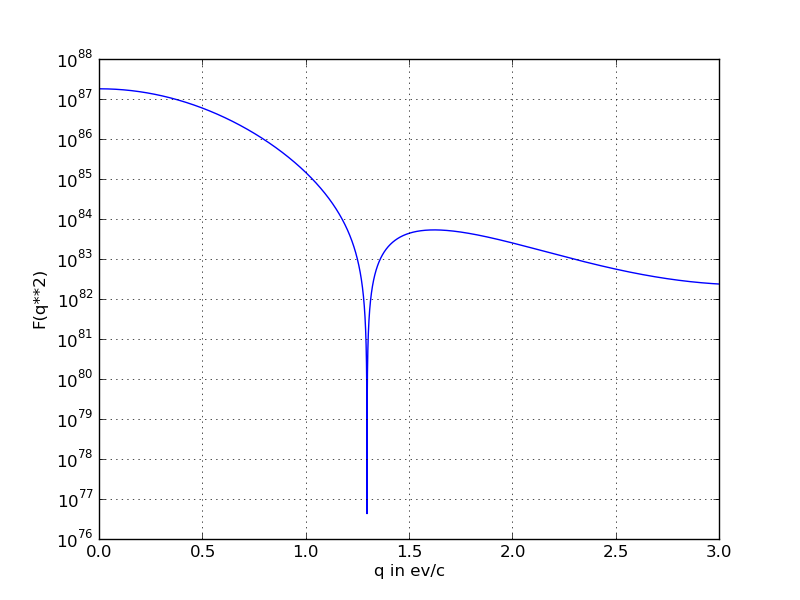
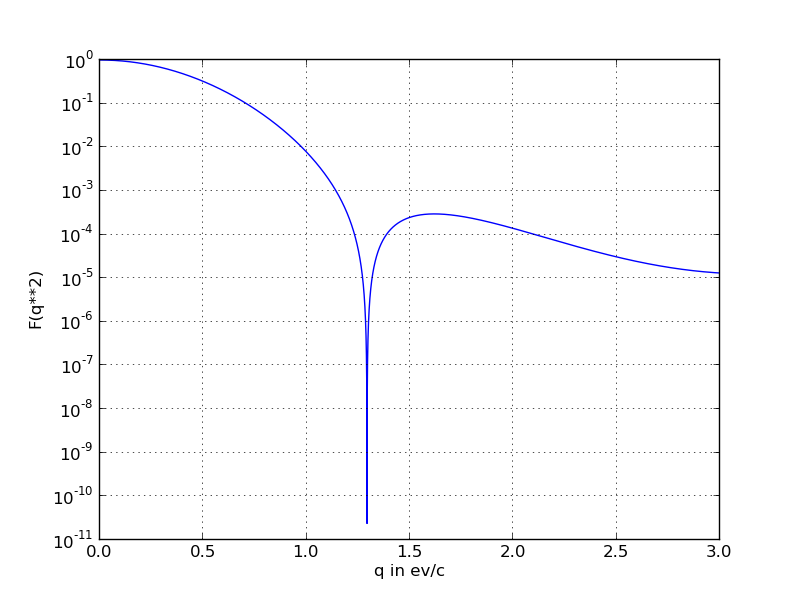
Done with hw2.

diff --git a/hw2/prob2_9.py b/hw2/prob2_9.py
@@ -1,0 +1,47 @@
+#! /usr/bin/env python
+import math
+u   = 931.494e6 # eV
+h   = 4.1357e-15    # eV.s
+hbar= 6.582e-16
+c   = 3.e8
+p_e = 330.e6    # eV
+theta   = 10.    # degrees
+theta_rad   = (10./360)*2*math.pi
+m_e = 0.511e6   # eV
+m_c = 1*u
+z_e = 1
+z_c = 1
+ee  = 1.44e-9
+
+beta_e  = p_e / math.sqrt(p_e**2 + m_e**2)
+gam_e   = math.sqrt(1 - beta_e**2)**-1.
+T_e = (gam_e - 1)*m_e
+beta_cm = m_e*beta_e/(m_e + m_c)
+gam_cm  = 1/math.sqrt(1 - beta_cm**2)
+p_e_cm  = gam_cm*(p_e - beta_cm*math.sqrt(p_e**2 + m_e**2))
+brog_lam_e  = h*c/p_e_cm
+q = abs(2*p_e*math.sin(theta_rad/2))
+theta_cm    = 2*math.asin(q/(2*p_e_cm))
+theta_cm_deg    = theta_cm * 360 /(math.pi*2)
+
+# Terms for mott scattering cross section
+ruth        = (z_e * z_c * ee /(2.*T_e))**2 * (math.sin(theta_rad/2.)**-4)
+
+# Recoil
+recoil      = 1/(1. + 2.*T_e*(math.sin(theta_rad/2)**2.)/m_c)
+
+# spin flip term
+spin_flip   = math.cos(theta_rad/2)**2
+
+mott = ruth*recoil*spin_flip
+
+# Correction by the cross section for black disk.
+a  = 1.2*(40**(1./3.))
+F_q = 3*(math.sin(q*a/hbar) - (q*a/hbar)*math.cos(q*a/hbar))/((q*a/hbar)**3)
+
+print "Broglie Wavelength   = {0:.7g}".format(brog_lam_e)
+print "momentum transfer q  = {0:.7g}".format(q)
+print "theta cm             = {0:.7g}".format(theta_cm_deg)
+print "mott cross section   = {0:.7g}".format(mott)
+print "formfactor squared   = {0:.7g}".format(F_q**2)
+print "recoil               = {0:.7g}".format(recoil)

diff --git a/hw2/harmonic_well_plot.py b/hw2/harmonic_well_plot.py
@@ -8,9 +8,9 @@ def F(theta):
     alph    = 4./3.
     a       = 1.64e-15
     po      = 1.        #### must change to 420 MeV then rescale.
-    const   = 2. /(a**3 * math.sqrt(3) * (2 + 3*alph))
+    #const   = 2. /(a**3 * math.sqrt(3) * (2 + 3*alph))
     q       = 2. * po * math.sin(theta/2)
-    f       = const * math.exp(-q**2 * (a/hbar)**2 /4)*(1 - (q**2 * (a/hbar)**2 * alph)/(4 + 6*alph))
+    f       = math.exp(-q**2 * (a/hbar)**2 /4)*(1 - (q**2 * (a/hbar)**2 * alph)/(4 + 6*alph))
     return abs(f)**2
 
 q = numpy.arange(0.0, 3., 1.e-4)

diff --git a/hw2/prob2_11.py b/hw2/prob2_11.py
@@ -1,0 +1,6 @@
+#! /usr/bin/env python
+import math
+
+ro = 1.3
+mn = 939.6e6
+
